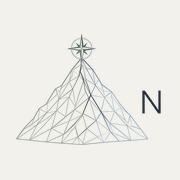
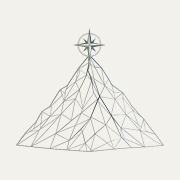
Crop the wordmark off the peak and darken the wireframe.
The header mark is only the mountain and compass, shown larger with slightly heavier lines so it reads on the paper background.

Changed region(s): [[0.0833, 0.1667, 0.9167, 0.8611]]

diff --git a/index.html b/index.html
@@ -222,7 +222,7 @@
         letter-spacing: -0.02em;
         min-height: 44px;
       }
-      .wordmark img { width: auto; height: 44px; display: block; }
+      .wordmark img { width: auto; height: 52px; display: block; }
       .nav-links { display: flex; align-items: center; gap: 22px; }
       .nav-links a {
         display: inline-flex;
@@ -1108,7 +1108,7 @@
     <header class="site-header">
       <div class="nav-bar wrap">
         <a class="wordmark" href="#top">
-          <img src="mark.png" width="59" height="44" alt="" />
+          <img src="mark.png" width="62" height="52" alt="" />
           North Peak Labs
         </a>
         <button class="menu-toggle" type="button" aria-expanded="false" aria-controls="nav-links" aria-label="Open navigation">
